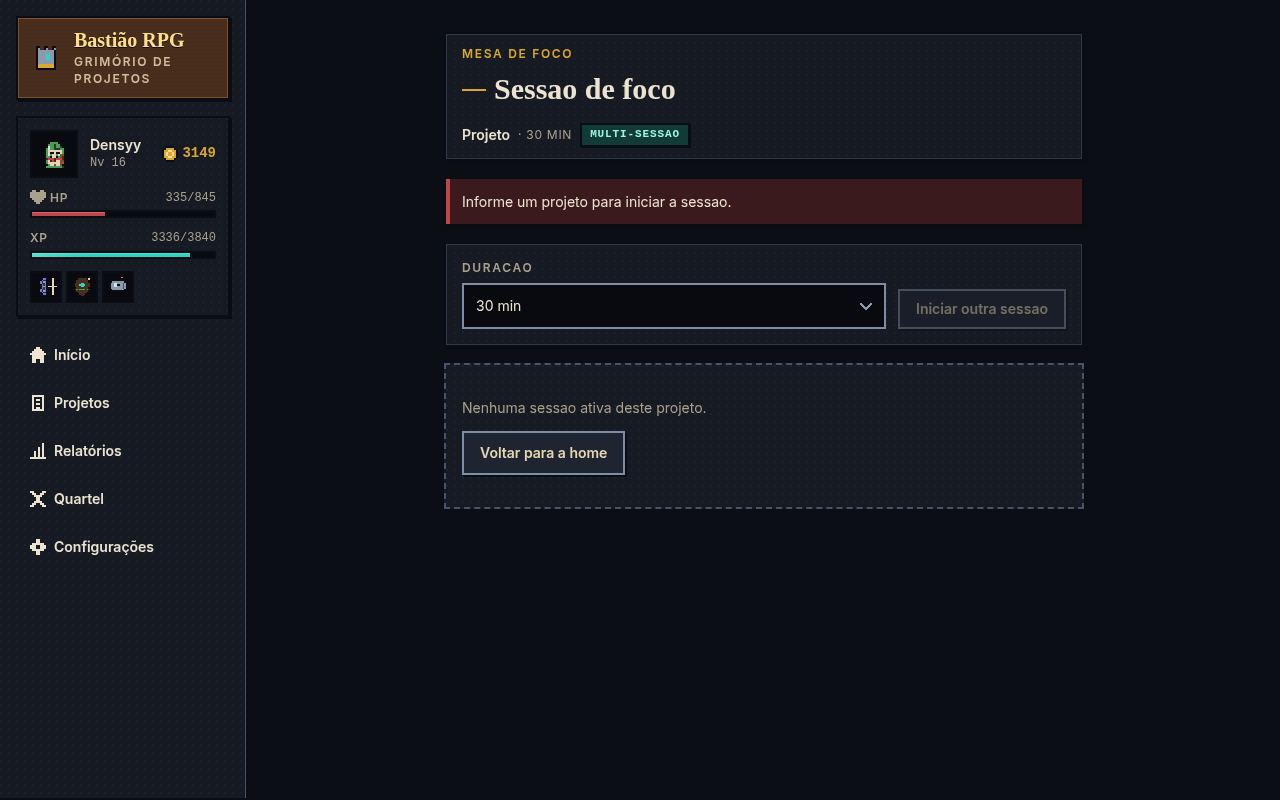
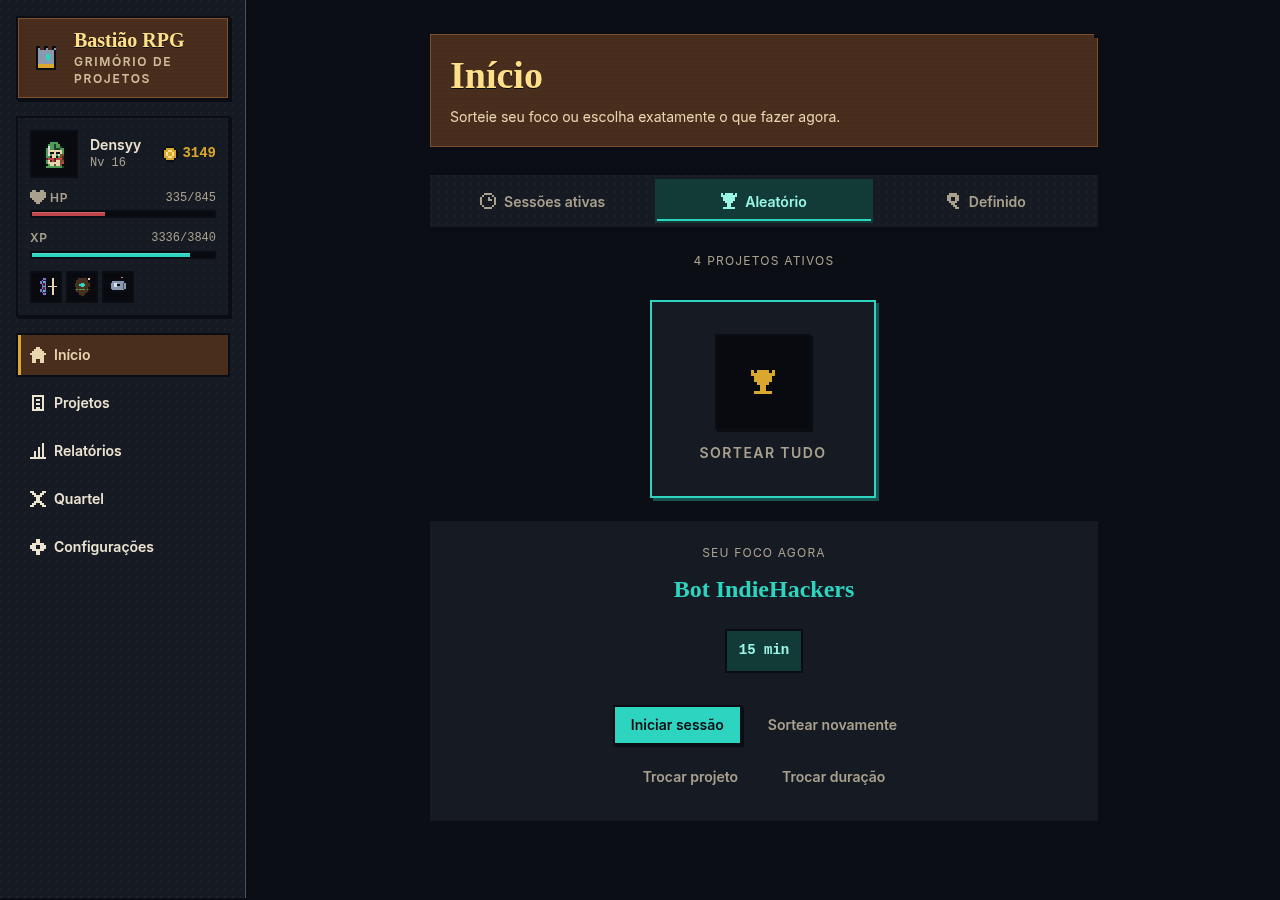
docs: corrige primeira foto para início e refaz aleatório
Tarefa: N-COMMIT-901

diff --git a/README.md b/README.md
@@ -11,7 +11,7 @@ cronômetro e trabalha. Cada sessão concluída vira progresso em um jogo de RPG
 Você ganha níveis, itens e ouro. O app não pede conta. O app não tem servidor.
 Seus dados ficam no seu navegador.
 
-<img src="./assets/dashboard.png" alt="Painel com horas e ganhos por projeto" width="100%" />
+<img src="./assets/inicio.png" alt="Tela início com sorteio de foco e sessões" width="100%" />
 
 ## Qual é o diferencial
 
@@ -36,7 +36,7 @@ A procrastinação aparece. Você não sabe por onde começar. O modo aleatório
 resolve isso. Um clique e o app sorteia o projeto. Ele também sorteia a
 duração. Você só começa.
 
-<img src="./assets/sessao.png" alt="Mesa de foco para iniciar a sessão" width="100%" />
+<img src="./assets/sessao.png" alt="Sorteio aleatório executado com projeto, duração e iniciar sessão" width="100%" />
 
 ## Horas e ganhos por projeto
 
